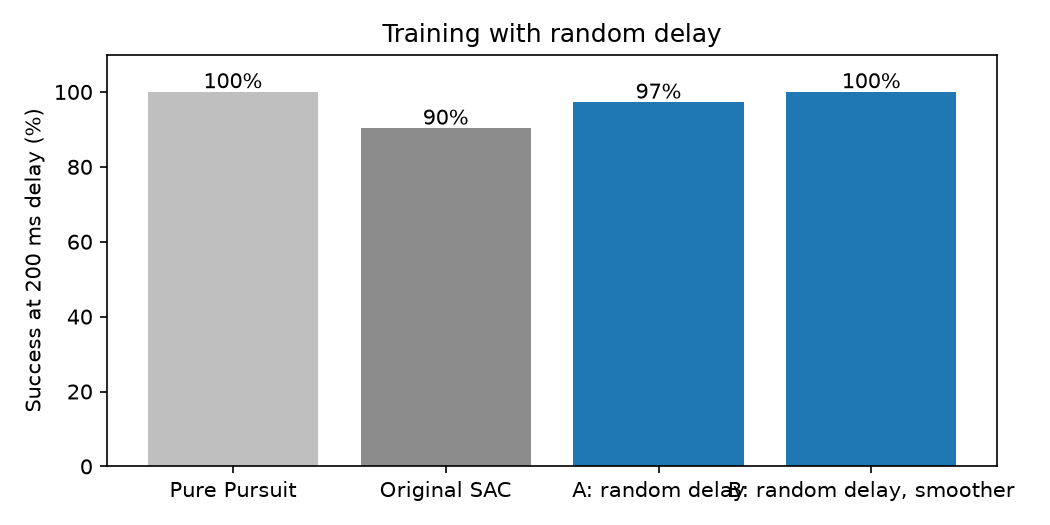
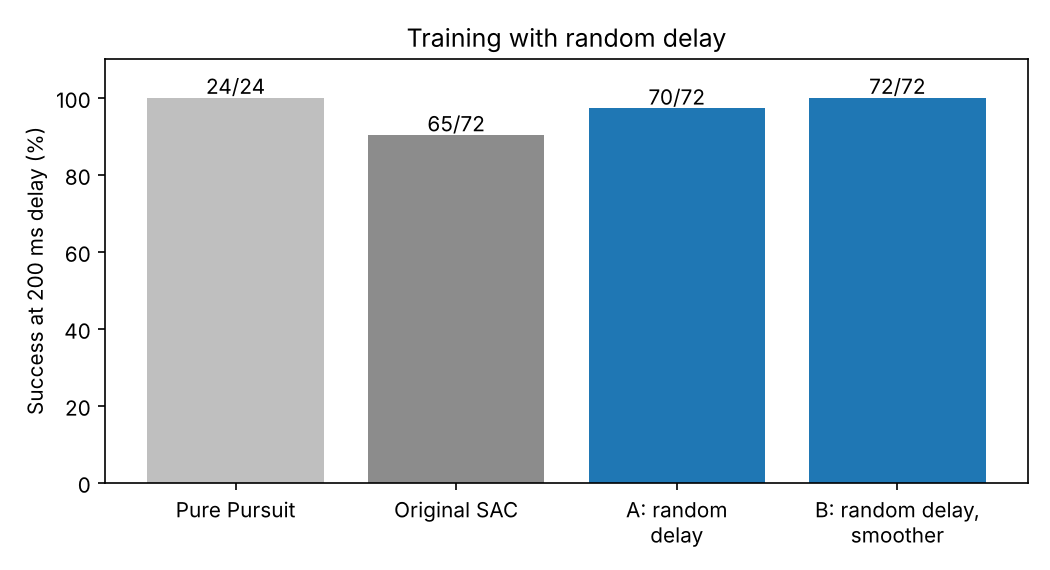
Show success counts and fix overlapping labels in the delay chart

Changed region(s): [[0.0, 0.0305, 0.9752, 0.9752]]

diff --git a/delay_report.py b/delay_report.py
@@ -19,14 +19,15 @@ for (variant, stress), rs in sorted(groups.items()):
     slew = sum(r["w_command_slew_rms_radps2"] for r in rs) / len(rs)
     print(f"{variant:26s} {stress:12s} success {wins}/{total}  RMSE {rmse:.3f} m  steering slew {slew:.2f} rad/s^2")
     if stress == "delay_200ms":
-        success[variant] = 100 * wins / total
+        success[variant] = (wins, total)
 
-labels = ["Pure Pursuit", "Original SAC", "A: random delay", "B: random delay, smoother"]
-values = [100.0, 100 * 65 / 72, success.get("A_random_delay", 0.0), success.get("B_random_delay_smoother", 0.0)]
-plt.figure(figsize=(7, 3.5))
+labels = ["Pure Pursuit", "Original SAC", "A: random\ndelay", "B: random delay,\nsmoother"]
+counts = [(24, 24), (65, 72), success.get("A_random_delay", (0, 1)), success.get("B_random_delay_smoother", (0, 1))]
+values = [100 * wins / total for wins, total in counts]
+plt.figure(figsize=(7, 3.8))
 plt.bar(labels, values, color=["0.75", "0.55", "tab:blue", "tab:blue"])
-for i, v in enumerate(values):
-    plt.text(i, v + 1, f"{v:.0f}%", ha="center")
+for i, (wins, total) in enumerate(counts):
+    plt.text(i, values[i] + 1, f"{wins}/{total}", ha="center")
 plt.ylim(0, 110)
 plt.ylabel("Success at 200 ms delay (%)")
 plt.title("Training with random delay")
